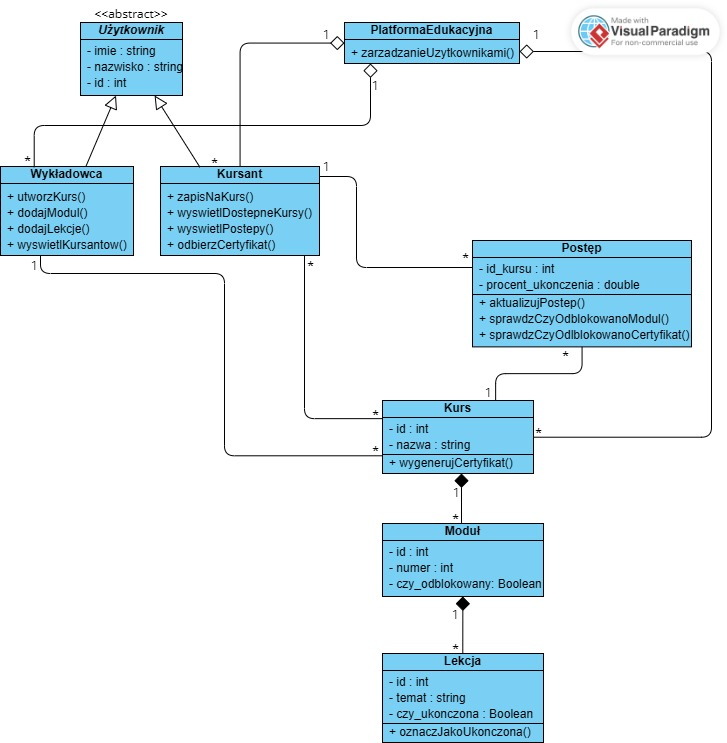
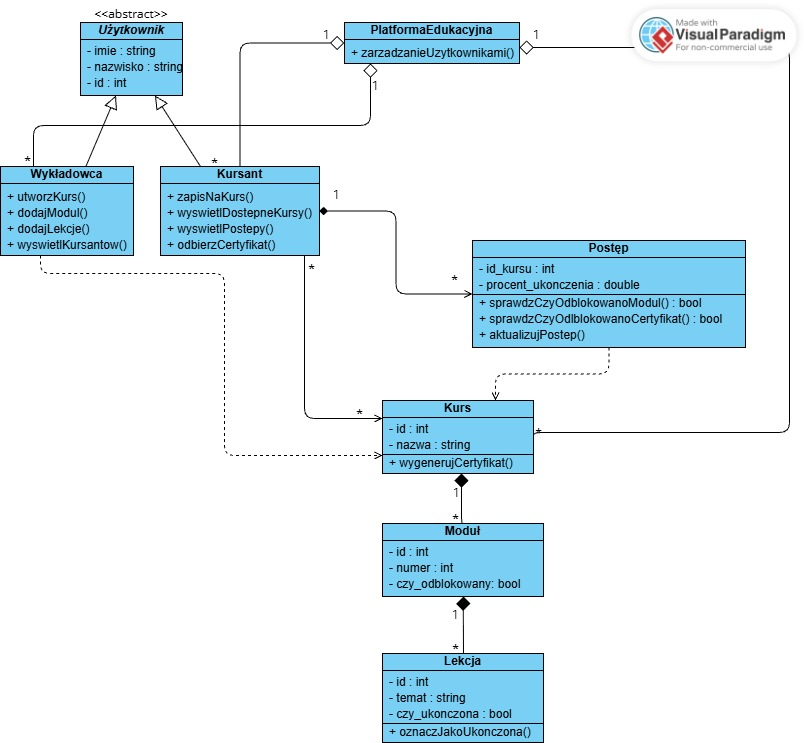
Edycja Diagramow i Readme, jedna zmiana w kodzie

diff --git a/Postep.h b/Postep.h
@@ -4,8 +4,9 @@ class Postep {
 private:
     int id_kursu;
     double procent_ukonczenia;
-    void aktualizujPostep();
+    
 public:
+    void aktualizujPostep();
     bool sprawdzCzyOdblokowanoModul();
     bool sprawdzCzyOdblokowanoCertyfikat();
 };

diff --git a/README.md b/README.md
@@ -25,28 +25,33 @@ Do każdego Kursu Kursant zapisuje się samodzielnie i przechodzi przez lekcje w
 
 Po ukończeniu wszystkich modułów w danym kursie Kursant otrzymuje certfikat ukończenia tego kursu.
 
-## User stories
 
 ## User stories
 
-1. Jako Kursant chcę przeglądać listę dostępnych Kursów na platformie, aby wybrać interesujący mnie temat nauki.
+1. Jako Użytkownik (Kursant lub Wykładowca) chcę zalogować się do platformy poprzez wybór swojej roli, aby uzyskać dostęp do przeznaczonych dla mnie funkcji systemu.
 
-2. Jako Kursant chcę samodzielnie zapisać się na wybrany Kurs, aby uzyskać dostęp do jego materiałów.
+2. Jako Kursant chcę przeglądać listę dostępnych Kursów na platformie, aby wybrać interesujący mnie temat nauki.
 
-3. Jako Kursant chcę widzieć na oknie startowym listę moich Kursów, aktualny Postęp w każdym z nich oraz zdobyte certyfikaty, aby kontrolować stan swojej nauki.
+3. Jako Kursant chcę samodzielnie zapisać się na wybrany Kurs, aby uzyskać dostęp do jego materiałów.
 
-4. Jako Kursant chcę realizować Lekcje w odpowiedniej kolejności i oznaczać je jako ukończone, aby systematycznie przyswajać wiedzę i odblokowywać kolejne Moduły.
+4. Jako Kursant chcę widzieć na oknie startowym listę moich Kursów, aktualny Postęp w każdym z nich oraz zdobyte certyfikaty, aby kontrolować stan swojej nauki.
 
-5. Jako Kursant chcę mieć zablokowany dostęp do kolejnego Modułu do czasu ukończenia poprzedniego, aby przechodzić przez materiał zgodnie z założoną strukturą Kursu.
+5. Jako Kursant chcę realizować Lekcje w odpowiedniej kolejności i oznaczać je jako ukończone, aby systematycznie przyswajać wiedzę i aktualizować swój Postęp.
 
-6. Jako Kursant chcę otrzymać certyfikat po ukończeniu wszystkich Modułów w Kursie, aby mieć potwierdzenie zdobytych kwalifikacji.
+6. Jako Kursant chcę mieć zablokowany dostęp do kolejnego Modułu do czasu ukończenia poprzedniego, aby przechodzić przez materiał zgodnie z założoną strukturą Kursu.
 
-7. Jako Wykładowca chcę utworzyć nowy Kurs, aby udostępnić Kursantom nową ścieżkę kształcenia.
+7. Jako Kursant chcę otrzymać certyfikat po ukończeniu wszystkich Modułów w Kursie, aby mieć potwierdzenie zdobytych kwalifikacji.
 
-8. Jako Wykładowca chcę zarządzać zawartością Kursu (dodawać Moduły oraz Lekcje), aby rozbudowywać materiały dydakt
-yczne.
-9. Jako Wykładowca chcę wyświetlić listę Kursantów zapisanych na dany Kurs, aby weryfikować frekwencję i zainteresowanie zajęciami.
+8. Jako Wykładowca chcę utworzyć nowy Kurs, aby udostępnić Kursantom nową ścieżkę kształcenia.
+
+9. Jako Wykładowca chcę zarządzać zawartością Kursu (dodawać Moduły oraz Lekcje), aby rozbudowywać materiały dydaktyczne.
+
+10. Jako Wykładowca chcę wyświetlić listę Kursantów zapisanych na dany Kurs, aby weryfikować frekwencję i zainteresowanie zajęciami.
 
 ## Diagram klas
 
 ![Diagram klas.jpg](Diagram%20klas.jpg)
+
+## Diagram przypadków użycia
+
+![Diagram przypadków użycia.jpg](Diagram%20przypadków%20użycia.jpg)
